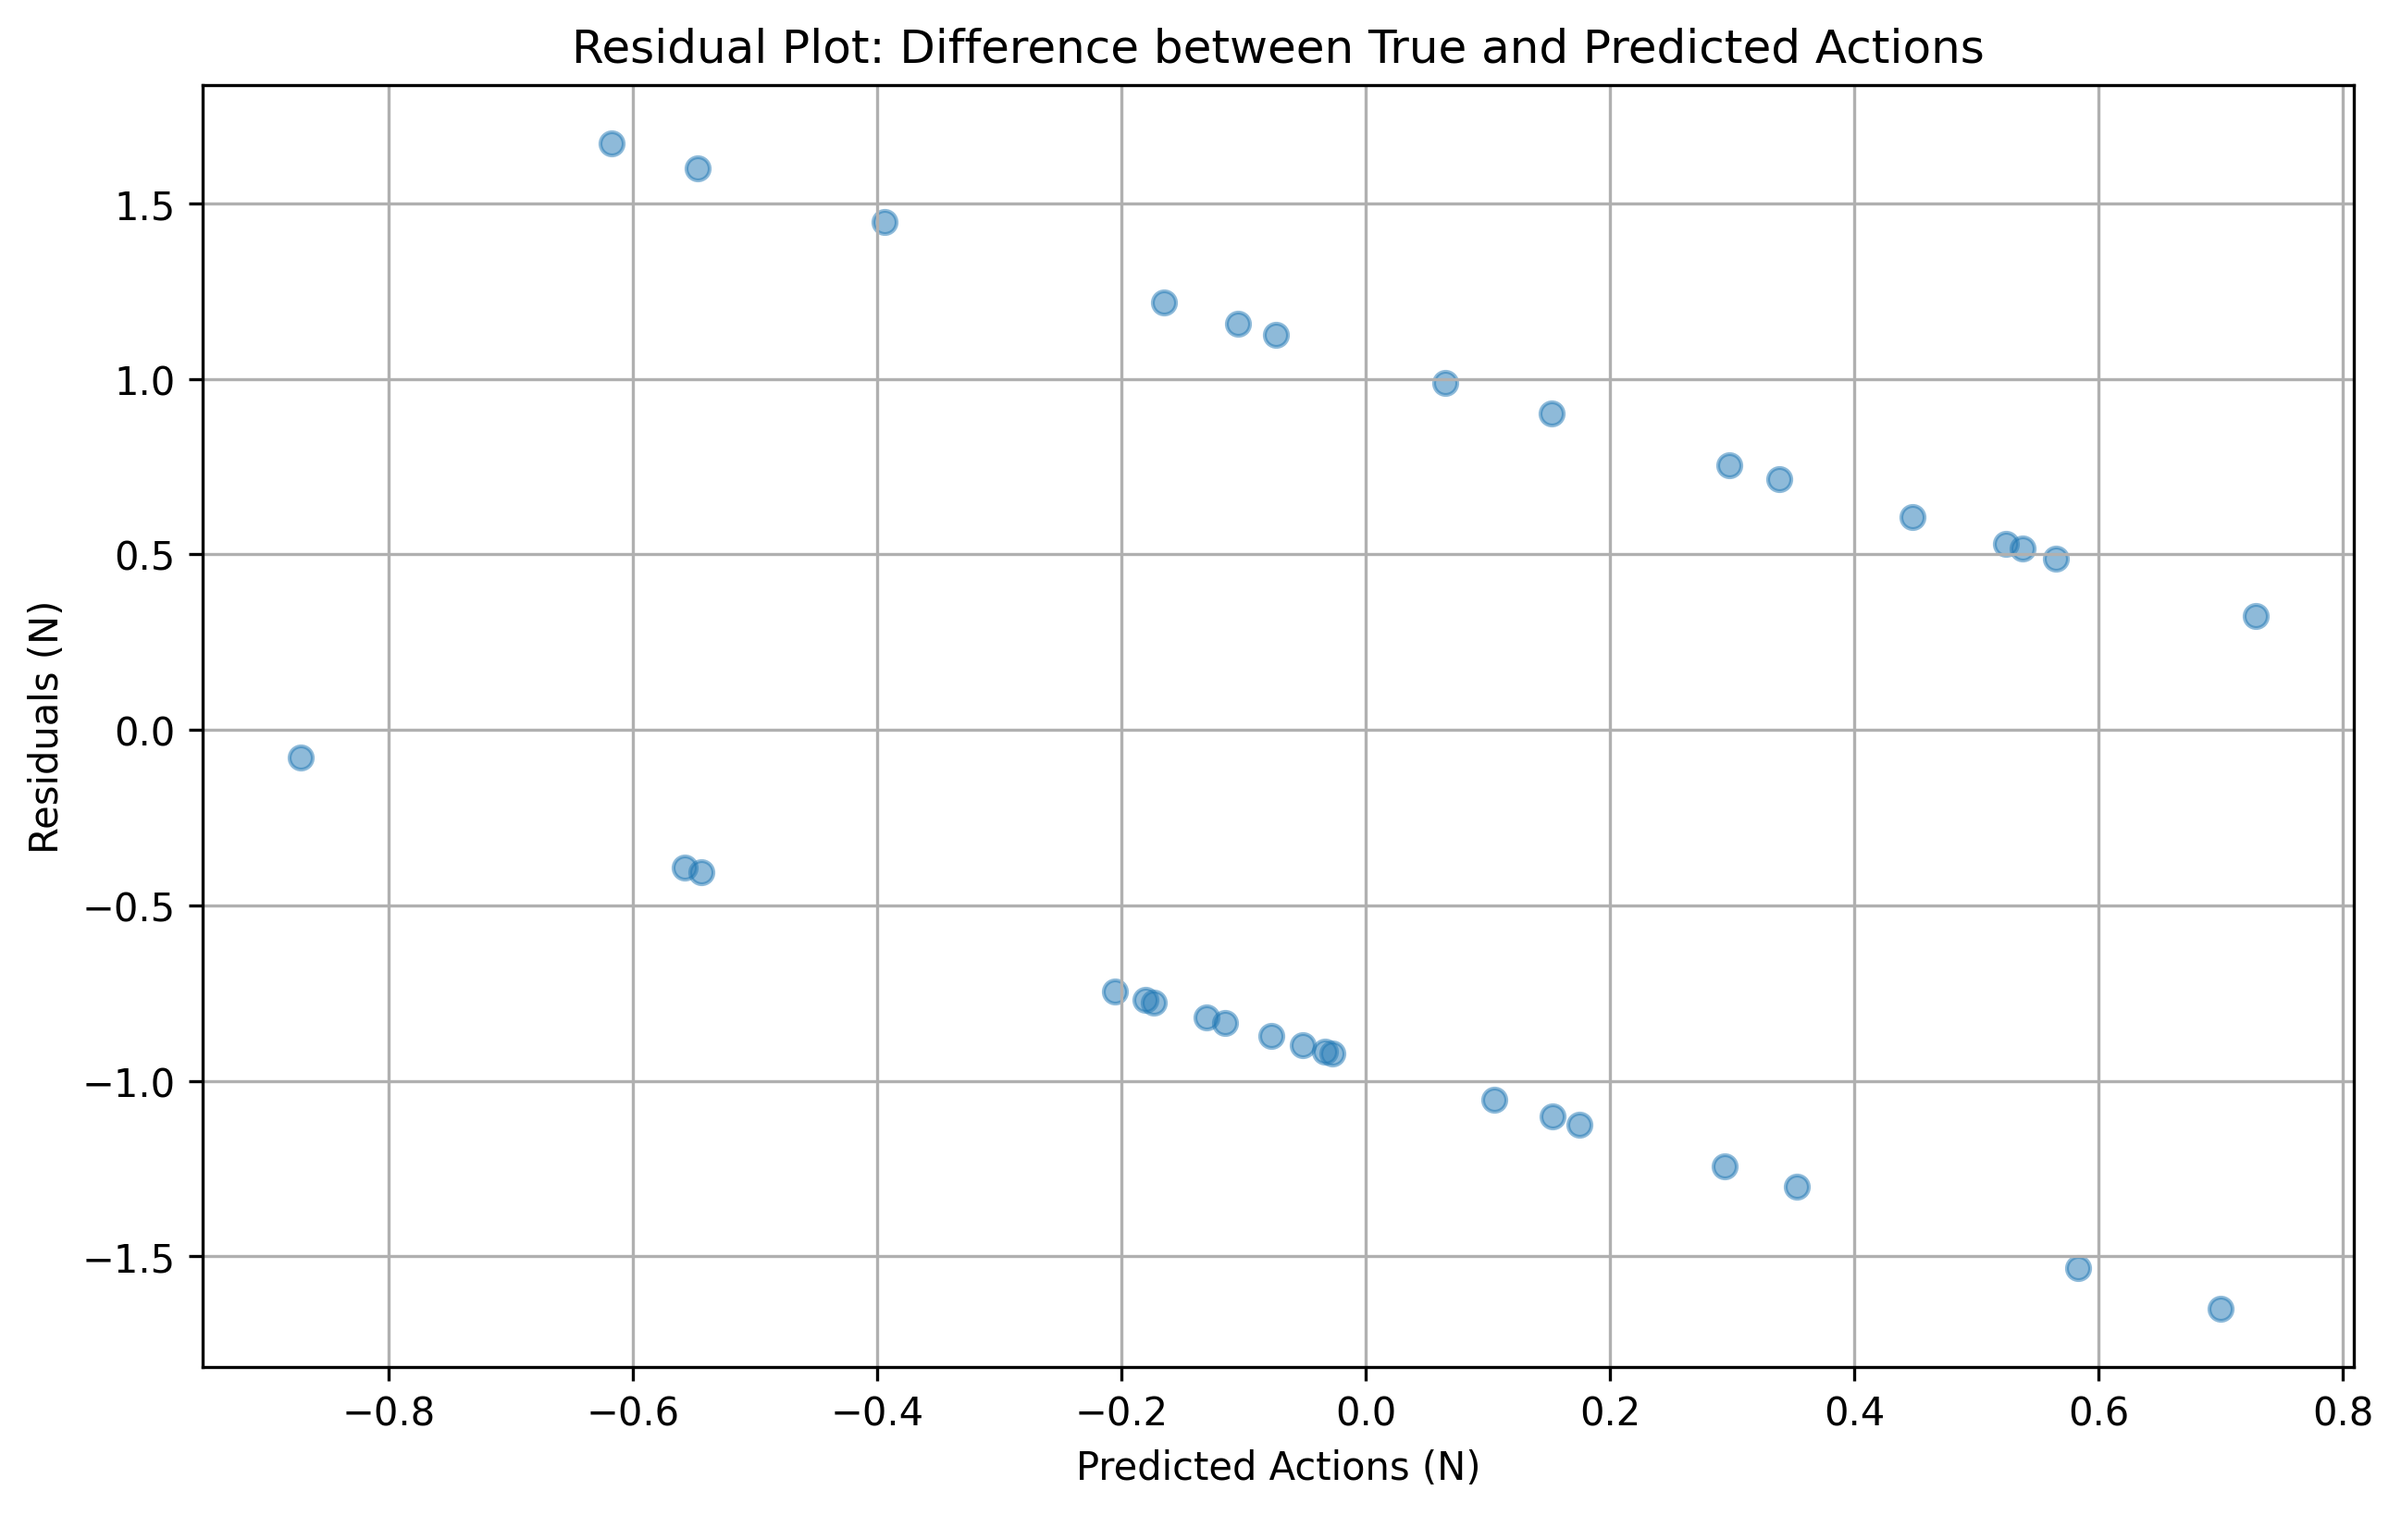
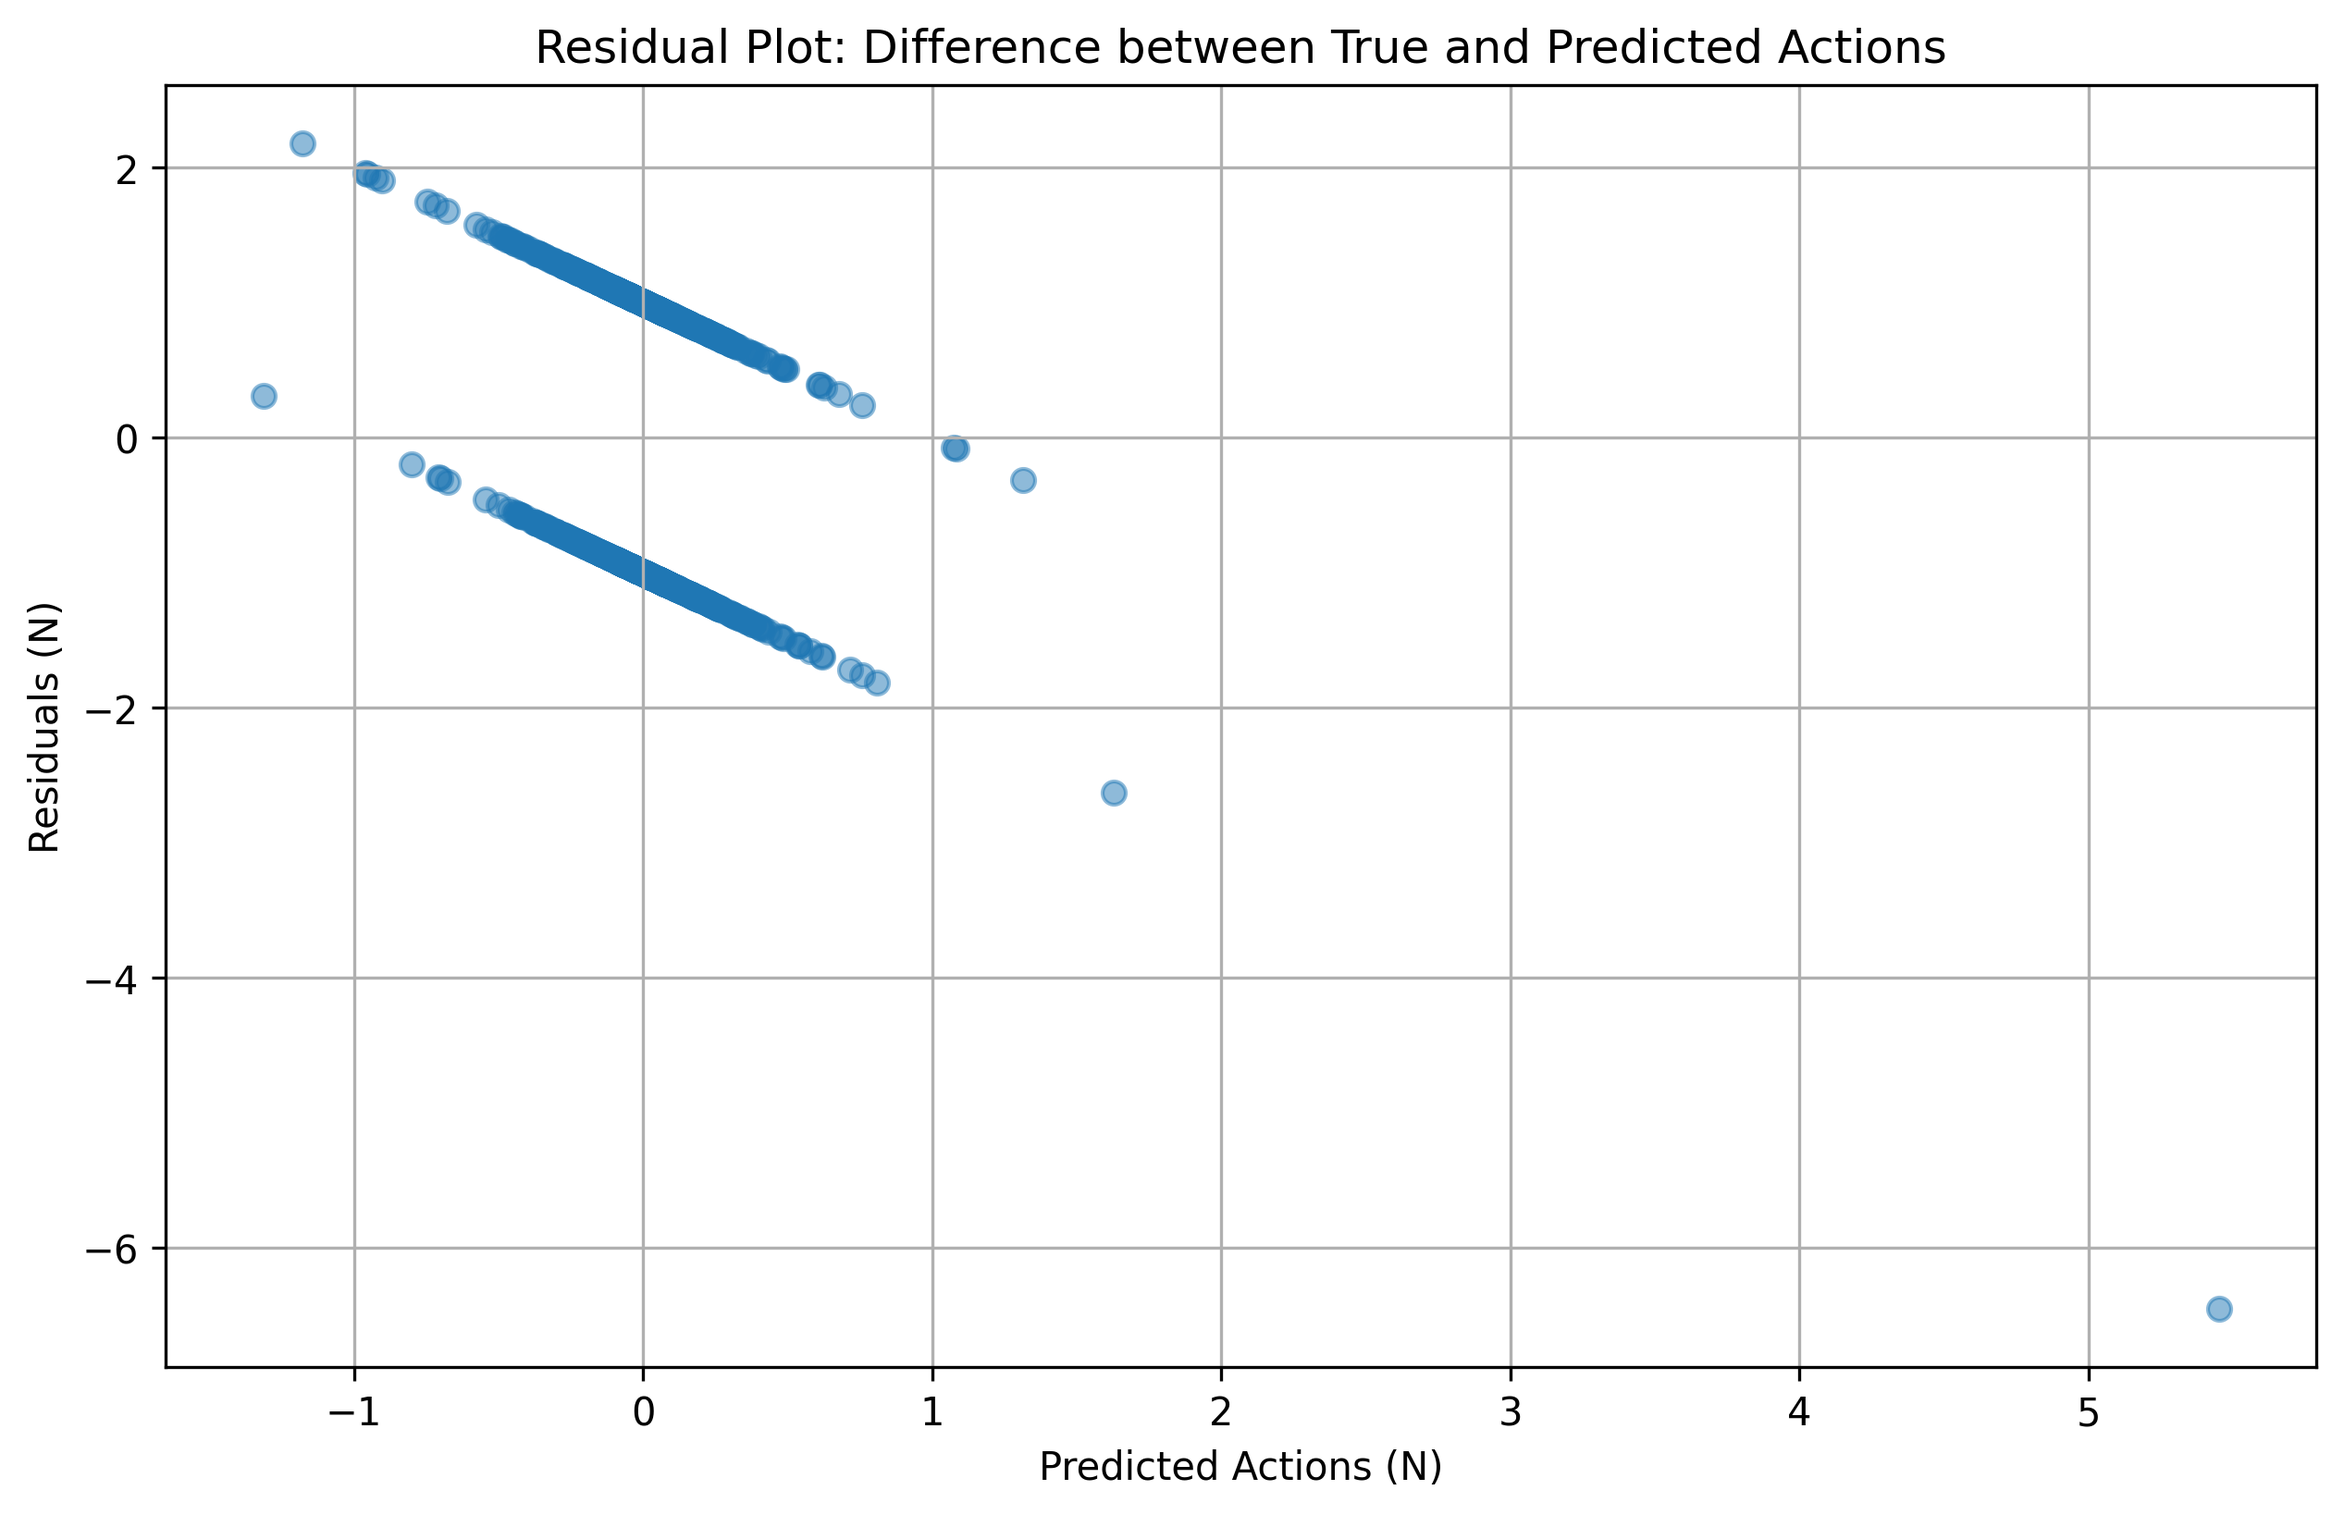
fix: compare env interact

diff --git a/main.py b/main.py
@@ -1,14 +1,19 @@
 from data.data_loader import get_dataloaders
+from integration.compare_envs_interactively import visualize_interactive
+from integration.gym_integration import PINNCartPoleEnv
 from model.pinn_model import CartpolePINN
 from training.train_utils import train_pinn, optimize_hyperparameters
 from evaluation.evaluate import evaluate_pinn
 from integration.compare_environments import compare_environments
 import datetime
 import torch
+from stable_baselines3.common.monitor import Monitor
+import gymnasium as gym
+
 
 def main():
     file_paths = ["data/cartpole_data.csv"]
-    sequence_length = 5  # Adjust this value as needed
+    sequence_length = 50  # Adjust this value as needed
 
     # Load and preprocess the data
     train_dataloader, test_dataloader, scaler = get_dataloaders(file_paths, batch_size=32, sequence_length=sequence_length, test_size=0.2)
@@ -26,7 +31,7 @@ def main():
     models = {}
     for predict_friction in [False]:
         print(f"{'With' if predict_friction else 'Without'} friction prediction:")
-        
+
         # Hyperparameter optimization
         print("Starting hyperparameter optimization...")
         best_config = optimize_hyperparameters(train_dataloader, test_dataloader, params, predict_friction, sequence_length)
@@ -43,16 +48,22 @@ def main():
         # Save the trained model
         timestamp = datetime.datetime.now().strftime("%Y%m%d_%H%M%S")
         torch.save(trained_model.state_dict(), f'model_archive/trained_pinn_model_{"with" if predict_friction else "without"}_friction_{timestamp}.pth')
-        
+        """
         # Uncomment this block to load a saved model and evaluate it directly. Make sure to comment out previous training block and hyperparameter optimization block. At evaluate_pinn use the loaded model instead of trained_model.
-        """ # Load the already saved model
-        saved_model_path = f'model_archive/trained_pinn_model_without_friction_20240918_022442.pth'
+        # Load the already saved model
+        saved_model_path = f'model_archive/trained_pinn_model_without_friction_20240919_092248.pth'
         loaded_model = CartpolePINN(sequence_length, predict_friction=predict_friction)
-        loaded_model.load_state_dict(torch.load(saved_model_path)) """
-        
+        loaded_model.load_state_dict(torch.load(saved_model_path))
+        """
+        # visualize interactively: uncomment only this block and the block above to load the pinn model
+        #original_env = Monitor(gym.make('CartPole-v1'))
+        #pinn_env = Monitor(PINNCartPoleEnv(loaded_model, params))
+        #visualize_interactive(pinn_env, original_env, max_steps=500, visualize=True, slow_motion_factor=3)
+
+
         # Evaluate model
         print("Evaluating model...")
-        mse, r2, avg_mse_loss, avg_physics_loss, mean_relative_error = evaluate_pinn(trained_model, test_dataloader, params, scaler)
+        mse, r2, avg_mse_loss, avg_physics_loss, mean_relative_error = evaluate_pinn(trained_model, test_dataloader, params, scaler) #TODO: trained_model
 
         print(f"Results for {'with' if predict_friction else 'without'} friction prediction:")
         print(f"MSE: {mse:.4f}")
@@ -62,17 +73,19 @@ def main():
         print(f"Mean Relative Error: {mean_relative_error:.4f}")
         print("\n" + "="*50 + "\n")
 
+
     # Compare environments
     #rewards_orig, rewards_pinn_with_friction = compare_environments(models[True], params, True)
     #rewards_orig, rewards_pinn_without_friction = compare_environments(models[False], params, False)
-    
-    """ # Load the trained model
+
+    # Load the trained model
     trained_model = CartpolePINN(predict_friction=False, sequence_length=sequence_length)
-    trained_model.load_state_dict(torch.load('model_archive/trained_pinn_model_without_friction_20240918_022442.pth')) """
+    trained_model.load_state_dict(torch.load('model_archive/trained_pinn_model_without_friction_20240919_092248.pth'))
+
 
     # Compare environments
     print("Comparing CartPole environments...")
-    rewards_orig, rewards_pinn_without_friction = compare_environments(trained_model, params, False)
+    rewards_orig, rewards_pinn_without_friction = compare_environments(trained_model, params, False) #TODO: trained_model
 
     print("Average reward (Original): {:.2f}".format(sum(rewards_orig) / len(rewards_orig)))
     #print("Average reward (PINN with friction): {:.2f}".format(sum(rewards_pinn_with_friction) / len(rewards_pinn_with_friction)))

diff --git a/integration/compare_envs_interactively.py b/integration/compare_envs_interactively.py
@@ -11,7 +11,7 @@ from integration.gym_integration import PINNCartPoleEnv
 from model.pinn_model import CartpolePINN
 
 
-def create_animation(fig, ax, limits=(-2.4, 2.4)):
+def create_animation(fig, ax, env_name, limits=(-2.4, 2.4)):
     """
     Create the initial figure and elements for the animation.
     """
@@ -19,7 +19,7 @@ def create_animation(fig, ax, limits=(-2.4, 2.4)):
     pend_plot, = ax.plot([], [], 'o-', markersize=10)  # Pendulum
     ax.set_xlim(limits)  # CartPole cart limits
     ax.set_ylim(-1.5, 1.5)
-    ax.set_title('CartPole Visualization')
+    ax.set_title('CartPole Visualization {}'.format(env_name))
     ax.set_xlabel('Cart Position')
     ax.set_ylabel('Pendulum Position')
 
@@ -61,8 +61,8 @@ def visualize_interactive(env1, env2, max_steps=500, visualize=True, slow_motion
     # Create the animation with matplotlib
     if visualize:
         fig, (ax1, ax2) = plt.subplots(1, 2, figsize=(10, 5))  # Two subplots for two envs
-        update_plot1 = create_animation(fig, ax1, limits=(-2.4, 2.4))
-        update_plot2 = create_animation(fig, ax2, limits=(-2.4, 2.4))
+        update_plot1 = create_animation(fig, ax1, "pinn", limits=(-2.4, 2.4))
+        update_plot2 = create_animation(fig, ax2, "ori", limits=(-2.4, 2.4))
 
     clock = pygame.time.Clock()
 
